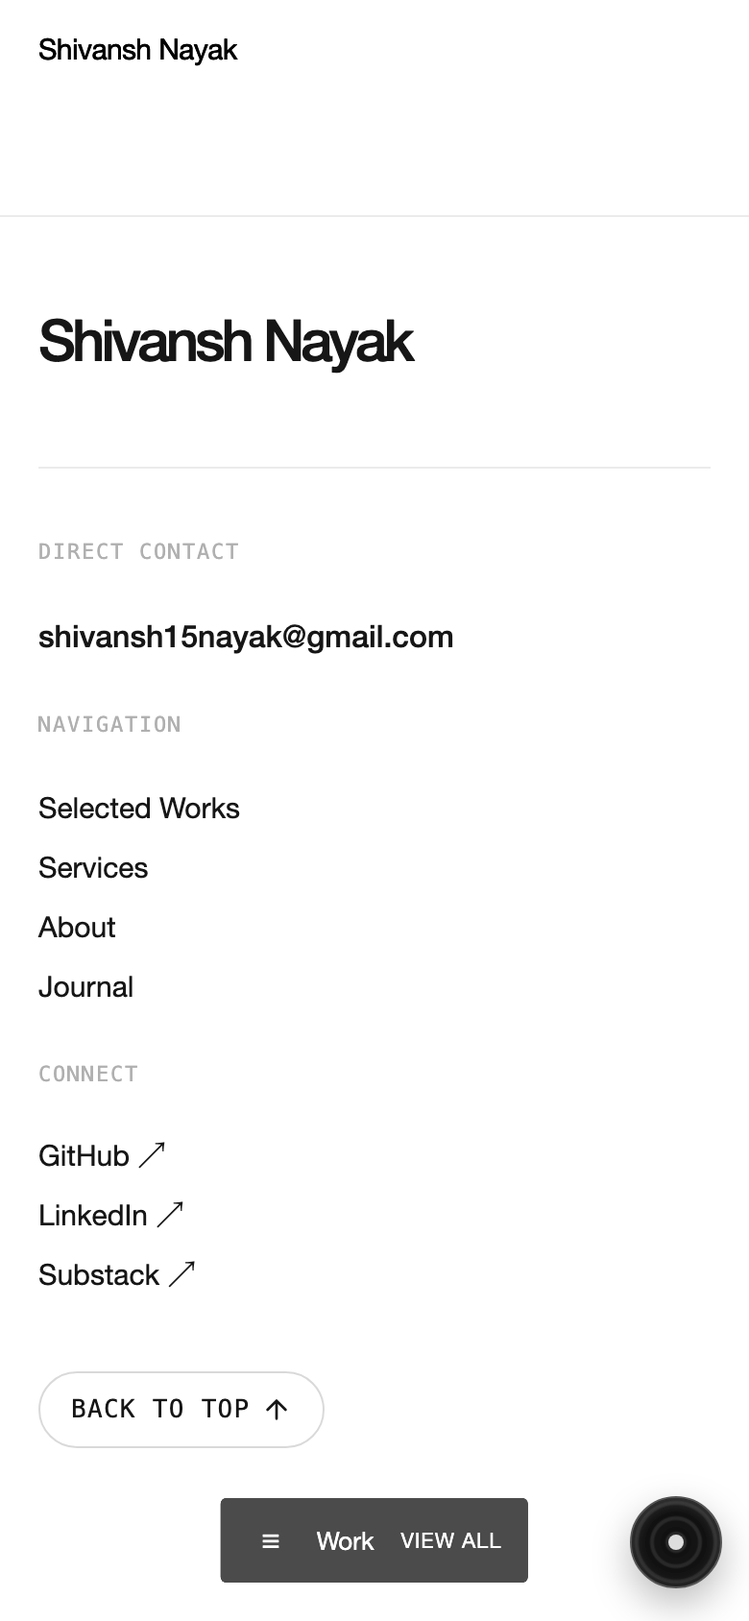
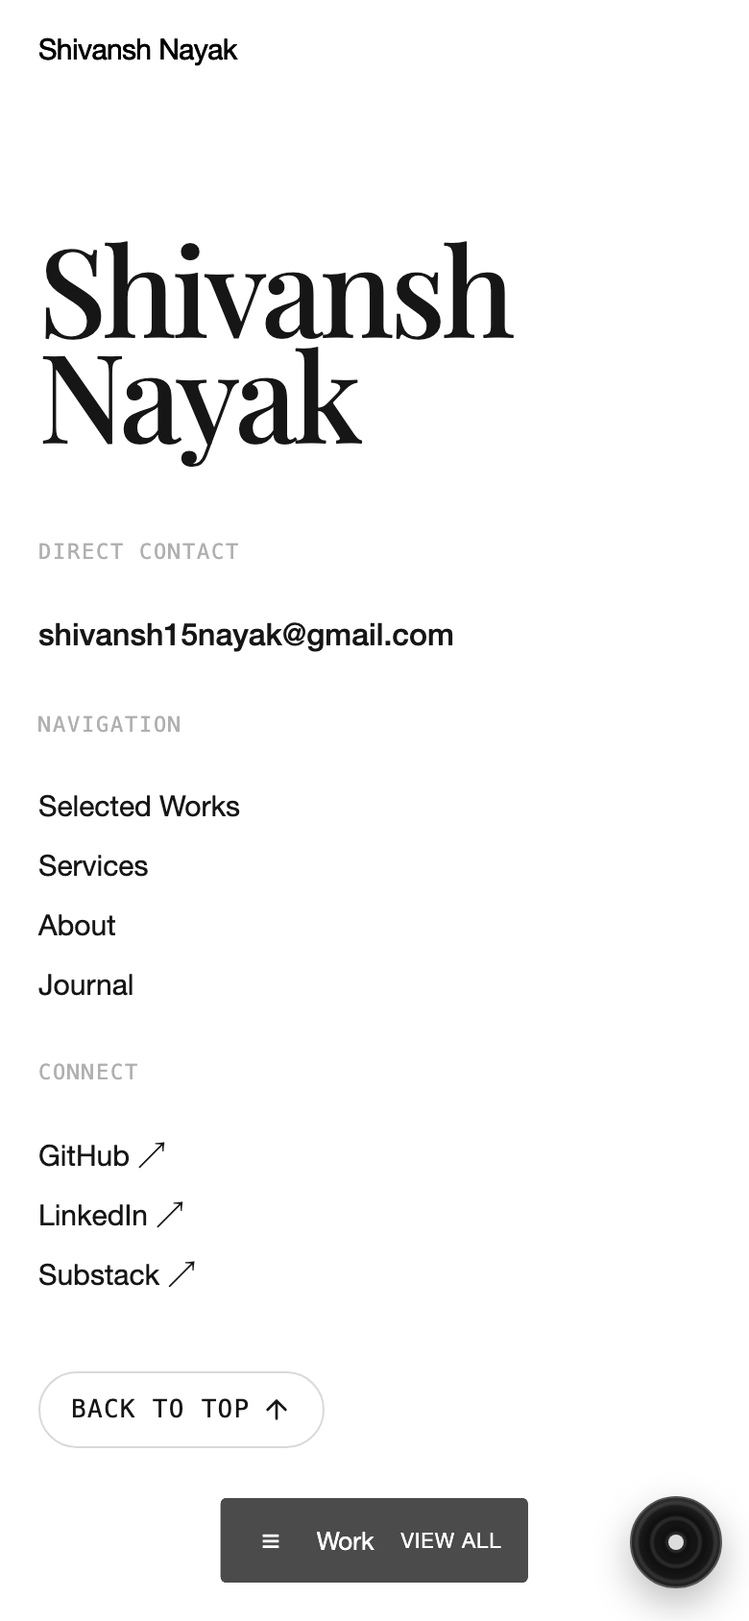
style: remove border lines in footer and enlarge Shivansh Nayak wordmark in editorial serif font

diff --git a/web/fizzi/style.css b/web/fizzi/style.css
@@ -1,1 +1,1 @@
-@import '../shared/base.css';:root{--pink:#f5cfce;--ink:#60293c;--flavour:#f0a6ae}body{background:var(--pink);color:var(--ink)}header{position:absolute;top:0;width:100%;z-index:5;display:flex;align-items:center;justify-content:space-between;padding:28px 5%}.logo{font-size:52px;letter-spacing:-5px;font-weight:800;line-height:1}.logo span{font-size:10px;letter-spacing:0;vertical-align:top;margin-left:7px}nav{display:flex;gap:35px;font-size:11px}header button{border:1px solid #60293c55;background:none;padding:12px 17px;border-radius:30px;color:inherit;font-size:10px}header button span{margin-left:12px}.hero{height:100svh;min-height:780px;max-height:1100px;position:relative;padding:145px 5% 35px;overflow:hidden}.eyebrow{font-size:8px;letter-spacing:1.5px;position:relative;z-index:2;display:block;text-align:center}.hero h1{text-align:center;font-size:clamp(75px,10.5vw,170px);line-height:.9;letter-spacing:-8px;margin:35px 0;position:relative;z-index:1;font-weight:800}.hero h1 em{font-family:Georgia;font-weight:400}.can-scene{position:absolute;inset:230px 0 70px;z-index:2;pointer-events:none}.can-scene canvas,.single-can canvas{width:100%;height:100%;display:block}.scene-loading{position:absolute;top:50%;left:50%;transform:translate(-50%,-50%);font-size:9px;letter-spacing:2px}.hero-bottom{position:absolute;bottom:35px;left:5%;right:5%;display:flex;justify-content:space-between;align-items:end;z-index:3}.hero-bottom p{font-size:12px;line-height:1.8;margin:0}.hero-bottom>span{font-size:7px;letter-spacing:1px}.pill{display:inline-flex;justify-content:space-between;gap:40px;background:var(--ink);color:#fff5e8;border:0;border-radius:35px;padding:17px 25px;font-size:12px}.fruit{position:absolute;font-size:130px;opacity:.6;z-index:0}.fruit-1{left:7%;top:35%;color:#bf5973;transform:rotate(-12deg)}.fruit-2{right:10%;top:62%;color:#b94c68;transform:rotate(25deg)}.marquee{padding:25px;background:#60293c;color:var(--pink);white-space:nowrap;overflow:hidden;font-size:21px;font-weight:600;letter-spacing:-.5px;text-align:center}.marquee span{margin:0 45px}.story{padding:100px 6%;background:#fff5e8;text-align:center}.story>span,.flavour-top,.big-statement>span,.questions>span{font-size:8px;letter-spacing:1.5px}h2{font-size:clamp(45px,6vw,90px);font-weight:600;line-height:1;letter-spacing:-4px;margin:35px 0}h2 em{font-family:Georgia;font-weight:400;letter-spacing:-.055em}.story>p{font-size:13px;line-height:1.9;color:#926d6b}.values{display:grid;grid-template-columns:repeat(3,1fr);gap:50px;margin-top:75px}.values b{font-size:50px;font-weight:400}.values h3{font-size:25px;font-weight:600;letter-spacing:-1px}.values p{font-size:12px;line-height:1.8;color:#926d6b}.flavours{background:var(--flavour);padding:35px 6% 70px;transition:background .6s,color .6s}.flavour-top{display:flex;justify-content:space-between}.flavour-layout{display:grid;grid-template-columns:1.2fr 1fr;gap:10%;align-items:center;margin-top:40px}.single-can{height:570px;position:relative}.single-can:before{content:'';position:absolute;inset:10% 0;border-radius:50%;background:#ffffff22}.single-can canvas{position:relative}.orbit-text{position:absolute;bottom:25px;left:50%;transform:translateX(-50%);font-size:8px;letter-spacing:3px;white-space:nowrap}.flavour-info>span{font-size:8px;letter-spacing:1px}.flavour-info h2{font-size:80px;font-weight:800;letter-spacing:-5px;margin:25px 0}.flavour-info>p{font-size:13px;line-height:1.9;max-width:350px}.flavour-switches{display:flex;gap:15px;margin:25px 0}.flavour-switches button{font-size:28px;line-height:1;border-radius:50%;border:1px solid transparent;background:none;padding:4px;width:42px;height:42px}.flavour-switches button.active{border-color:currentColor}.flavour-switches button:nth-child(1){color:#933b5b}.flavour-switches button:nth-child(2){color:#e0ea70}.flavour-switches button:nth-child(3){color:#8971bd}.flavour-switches button:nth-child(4){color:#da5c6b}.flavour-switches button:nth-child(5){color:#efad8c}.pack{border-top:1px solid #60293c55;padding:20px 0;display:flex;justify-content:space-between;align-items:center;max-width:360px}.pack span{font-size:8px;letter-spacing:1px}.pack b{font-size:22px;font-weight:500}#add-bag{width:100%;max-width:360px}.flavour-info>small{font-size:8px;display:block;margin-top:16px;opacity:.7}.big-statement{background:#b9c784;text-align:center;padding:90px 5%;color:#384c27}.big-statement h2{font-size:clamp(65px,8.5vw,135px);margin:40px 0}.big-statement .pill{background:#384c27;margin-top:15px}.questions{padding:90px 7%;max-width:1000px;margin:auto}.questions h2{margin-bottom:50px}.questions details{border-top:1px solid #60293c55;padding:22px 0}.questions summary{font-size:15px;cursor:pointer}.questions p{font-size:12px;line-height:1.8;max-width:650px}.closing{text-align:center;background:#60293c;color:var(--pink);padding:70px 5%}.closing .logo{font-size:130px;letter-spacing:-12px}.closing h2{font-size:35px;letter-spacing:-1.5px}.closing>a:last-child{font-size:12px;border-bottom:1px solid;padding-bottom:7px}footer{padding:28px 5%;display:flex;justify-content:space-between;align-items:center;gap:20px;font-size:12px;border-top:1px solid #60293c33}footer a{color:inherit;text-decoration:none;border-bottom:1px solid transparent;transition:border-color .2s}footer a:hover{border-color:currentColor}dialog{background:#fff5e8;color:#60293c}.bag-row{border-top:1px solid #ddd;padding:15px 0;display:flex;justify-content:space-between;gap:15px;font-size:12px;align-items:center}.bag-row button{border:1px solid #aaa;background:none;border-radius:50%;width:25px;height:25px;color:inherit}.bag-row span{font-size:10px}.bag-row>div{display:flex;align-items:center;gap:10px}#bag-total{font-size:18px;margin:25px 0}#checkout-status{font-size:12px}dialog>small{font-size:9px}dialog .pill{width:100%}@media(max-width:650px){header{padding:24px 5%}.logo{font-size:39px;letter-spacing:-4px}nav{display:none}.hero{min-height:780px;max-height:900px;padding-top:135px}.eyebrow{font-size:6px;letter-spacing:1px}.hero h1{font-size:16vw;letter-spacing:-4px;margin-top:30px}.can-scene{inset:270px 0 135px}.fruit{font-size:75px}.fruit-1{top:43%;left:3%}.fruit-2{top:65%;right:5%}.hero-bottom{bottom:30px;align-items:center;gap:15px}.hero-bottom p{font-size:10px}.hero-bottom>span{display:none}.hero-bottom .pill{font-size:10px;padding:14px 18px;gap:15px}.marquee{font-size:16px;padding:20px}.marquee span{margin:0 25px}.story{padding:65px 6%}h2{font-size:43px;letter-spacing:-2px}.story>p{font-size:12px}.values{grid-template-columns:1fr;gap:30px;margin-top:45px}.values h3{font-size:25px;margin:18px 0}.values b{font-size:40px}.flavours{padding:25px 6% 55px}.flavour-top{font-size:6px;line-height:1.7;gap:25px}.flavour-top>span:last-child{text-align:right;max-width:130px}.flavour-layout{grid-template-columns:1fr;gap:20px;margin-top:10px}.single-can{height:400px}.single-can:before{inset:5% 0}.flavour-info h2{font-size:64px;letter-spacing:-4px}.flavour-info>p{font-size:12px}.flavour-info>span{font-size:7px}.flavour-switches{gap:12px}.pack,#add-bag{max-width:none}.big-statement{padding:65px 5%}.big-statement h2{font-size:15vw;letter-spacing:-3px}.questions{padding:65px 6%}.questions summary{font-size:13px;line-height:1.6}.closing .logo{font-size:100px}.closing h2{font-size:29px}footer{flex-wrap:wrap;font-size:7px;justify-content:center}footer>span{width:100%;text-align:center;order:3}}
+@import '../shared/base.css';:root{--pink:#f5cfce;--ink:#60293c;--flavour:#f0a6ae}body{background:var(--pink);color:var(--ink)}header{position:absolute;top:0;width:100%;z-index:5;display:flex;align-items:center;justify-content:space-between;padding:28px 5%}.logo{font-size:52px;letter-spacing:-5px;font-weight:800;line-height:1}.logo span{font-size:10px;letter-spacing:0;vertical-align:top;margin-left:7px}nav{display:flex;gap:35px;font-size:11px}header button{border:1px solid #60293c55;background:none;padding:12px 17px;border-radius:30px;color:inherit;font-size:10px}header button span{margin-left:12px}.hero{height:100svh;min-height:780px;max-height:1100px;position:relative;padding:145px 5% 35px;overflow:hidden}.eyebrow{font-size:8px;letter-spacing:1.5px;position:relative;z-index:2;display:block;text-align:center}.hero h1{text-align:center;font-size:clamp(75px,10.5vw,170px);line-height:.9;letter-spacing:-8px;margin:35px 0;position:relative;z-index:1;font-weight:800}.hero h1 em{font-family:Georgia;font-weight:400}.can-scene{position:absolute;inset:230px 0 70px;z-index:2;pointer-events:none}.can-scene canvas,.single-can canvas{width:100%;height:100%;display:block}.scene-loading{position:absolute;top:50%;left:50%;transform:translate(-50%,-50%);font-size:9px;letter-spacing:2px}.hero-bottom{position:absolute;bottom:35px;left:5%;right:5%;display:flex;justify-content:space-between;align-items:end;z-index:3}.hero-bottom p{font-size:12px;line-height:1.8;margin:0}.hero-bottom>span{font-size:7px;letter-spacing:1px}.pill{display:inline-flex;justify-content:space-between;gap:40px;background:var(--ink);color:#fff5e8;border:0;border-radius:35px;padding:17px 25px;font-size:12px}.fruit{position:absolute;font-size:130px;opacity:.6;z-index:0}.fruit-1{left:7%;top:35%;color:#bf5973;transform:rotate(-12deg)}.fruit-2{right:10%;top:62%;color:#b94c68;transform:rotate(25deg)}.marquee{padding:25px;background:#60293c;color:var(--pink);white-space:nowrap;overflow:hidden;font-size:21px;font-weight:600;letter-spacing:-.5px;text-align:center}.marquee span{margin:0 45px}.story{padding:100px 6%;background:#fff5e8;text-align:center}.story>span,.flavour-top,.big-statement>span,.questions>span{font-size:8px;letter-spacing:1.5px}h2{font-size:clamp(45px,6vw,90px);font-weight:600;line-height:1;letter-spacing:-4px;margin:35px 0}h2 em{font-family:Georgia;font-weight:400;letter-spacing:-.055em}.story>p{font-size:13px;line-height:1.9;color:#926d6b}.values{display:grid;grid-template-columns:repeat(3,1fr);gap:50px;margin-top:75px}.values b{font-size:50px;font-weight:400}.values h3{font-size:25px;font-weight:600;letter-spacing:-1px}.values p{font-size:12px;line-height:1.8;color:#926d6b}.flavours{background:var(--flavour);padding:35px 6% 70px;transition:background .6s,color .6s}.flavour-top{display:flex;justify-content:space-between}.flavour-layout{display:grid;grid-template-columns:1.2fr 1fr;gap:10%;align-items:center;margin-top:40px}.single-can{height:570px;position:relative}.single-can:before{content:'';position:absolute;inset:10% 0;border-radius:50%;background:#ffffff22}.single-can canvas{position:relative}.orbit-text{position:absolute;bottom:25px;left:50%;transform:translateX(-50%);font-size:8px;letter-spacing:3px;white-space:nowrap}.flavour-info>span{font-size:8px;letter-spacing:1px}.flavour-info h2{font-size:80px;font-weight:800;letter-spacing:-5px;margin:25px 0}.flavour-info>p{font-size:13px;line-height:1.9;max-width:350px}.flavour-switches{display:flex;gap:15px;margin:25px 0}.flavour-switches button{font-size:28px;line-height:1;border-radius:50%;border:1px solid transparent;background:none;padding:4px;width:42px;height:42px}.flavour-switches button.active{border-color:currentColor}.flavour-switches button:nth-child(1){color:#933b5b}.flavour-switches button:nth-child(2){color:#e0ea70}.flavour-switches button:nth-child(3){color:#8971bd}.flavour-switches button:nth-child(4){color:#da5c6b}.flavour-switches button:nth-child(5){color:#efad8c}.pack{border-top:1px solid #60293c55;padding:20px 0;display:flex;justify-content:space-between;align-items:center;max-width:360px}.pack span{font-size:8px;letter-spacing:1px}.pack b{font-size:22px;font-weight:500}#add-bag{width:100%;max-width:360px}.flavour-info>small{font-size:8px;display:block;margin-top:16px;opacity:.7}.big-statement{background:#b9c784;text-align:center;padding:90px 5%;color:#384c27}.big-statement h2{font-size:clamp(65px,8.5vw,135px);margin:40px 0}.big-statement .pill{background:#384c27;margin-top:15px}.questions{padding:90px 7%;max-width:1000px;margin:auto}.questions h2{margin-bottom:50px}.questions details{border-top:1px solid #60293c55;padding:22px 0}.questions summary{font-size:15px;cursor:pointer}.questions p{font-size:12px;line-height:1.8;max-width:650px}.closing{text-align:center;background:#60293c;color:var(--pink);padding:70px 5%}.closing .logo{font-size:130px;letter-spacing:-12px}.closing h2{font-size:35px;letter-spacing:-1.5px}.closing>a:last-child{font-size:12px;border-bottom:1px solid;padding-bottom:7px}footer{padding:28px 5%;display:flex;justify-content:space-between;align-items:center;gap:20px;font-size:12px;border-top:none}footer a{color:inherit;text-decoration:none;border-bottom:1px solid transparent;transition:border-color .2s}footer a:hover{border-color:currentColor}dialog{background:#fff5e8;color:#60293c}.bag-row{border-top:1px solid #ddd;padding:15px 0;display:flex;justify-content:space-between;gap:15px;font-size:12px;align-items:center}.bag-row button{border:1px solid #aaa;background:none;border-radius:50%;width:25px;height:25px;color:inherit}.bag-row span{font-size:10px}.bag-row>div{display:flex;align-items:center;gap:10px}#bag-total{font-size:18px;margin:25px 0}#checkout-status{font-size:12px}dialog>small{font-size:9px}dialog .pill{width:100%}@media(max-width:650px){header{padding:24px 5%}.logo{font-size:39px;letter-spacing:-4px}nav{display:none}.hero{min-height:780px;max-height:900px;padding-top:135px}.eyebrow{font-size:6px;letter-spacing:1px}.hero h1{font-size:16vw;letter-spacing:-4px;margin-top:30px}.can-scene{inset:270px 0 135px}.fruit{font-size:75px}.fruit-1{top:43%;left:3%}.fruit-2{top:65%;right:5%}.hero-bottom{bottom:30px;align-items:center;gap:15px}.hero-bottom p{font-size:10px}.hero-bottom>span{display:none}.hero-bottom .pill{font-size:10px;padding:14px 18px;gap:15px}.marquee{font-size:16px;padding:20px}.marquee span{margin:0 25px}.story{padding:65px 6%}h2{font-size:43px;letter-spacing:-2px}.story>p{font-size:12px}.values{grid-template-columns:1fr;gap:30px;margin-top:45px}.values h3{font-size:25px;margin:18px 0}.values b{font-size:40px}.flavours{padding:25px 6% 55px}.flavour-top{font-size:6px;line-height:1.7;gap:25px}.flavour-top>span:last-child{text-align:right;max-width:130px}.flavour-layout{grid-template-columns:1fr;gap:20px;margin-top:10px}.single-can{height:400px}.single-can:before{inset:5% 0}.flavour-info h2{font-size:64px;letter-spacing:-4px}.flavour-info>p{font-size:12px}.flavour-info>span{font-size:7px}.flavour-switches{gap:12px}.pack,#add-bag{max-width:none}.big-statement{padding:65px 5%}.big-statement h2{font-size:15vw;letter-spacing:-3px}.questions{padding:65px 6%}.questions summary{font-size:13px;line-height:1.6}.closing .logo{font-size:100px}.closing h2{font-size:29px}footer{flex-wrap:wrap;font-size:7px;justify-content:center}footer>span{width:100%;text-align:center;order:3}}

diff --git a/web/substance/style.css b/web/substance/style.css
@@ -1,1 +1,1 @@
-@import '../shared/base.css';:root{--bg:#10101b;--pink:#f04687;--cyan:#4ce4c5}body{background:var(--bg);color:#ecebec}header{position:absolute;top:0;left:0;right:0;z-index:5;display:flex;align-items:center;justify-content:space-between;padding:30px 5%}.logo{font-size:15px;line-height:1;letter-spacing:-.5px;font-weight:700;position:relative}.logo span{position:absolute;right:-15px;top:0;font-size:8px}nav{display:flex;gap:35px;font-size:10px}header>a:last-child{font-size:10px;border-bottom:1px solid #777;padding-bottom:8px}.hero{height:100svh;min-height:800px;max-height:1100px;position:relative;overflow:hidden;padding:160px 5% 40px}.eyebrow{font-size:7px;letter-spacing:1.5px;color:#888}.hero h1{font-size:clamp(90px,12vw,190px);letter-spacing:-9px;font-weight:500;line-height:.9;position:relative;z-index:2;pointer-events:none;margin:65px 0 25px}.hero em{color:var(--pink);font-family:Georgia,serif;font-weight:400}.hero>p{font-size:13px;line-height:1.8;color:#999;position:relative;z-index:2}.hero-foot{position:absolute;bottom:35px;left:5%;right:5%;display:flex;justify-content:space-between;gap:20px;font-size:7px;letter-spacing:1px}.hero-foot>a{color:var(--cyan)}#gem-stage{position:absolute;width:65%;height:80%;right:-2%;top:10%;pointer-events:none}#gem-stage canvas{width:100%;height:100%;display:block}#gem-loading{position:absolute;left:50%;top:50%;font-size:8px;letter-spacing:1px;transform:translate(-50%,-50%)}.manifesto{padding:100px 7%;border-top:1px solid #393943;background:#161624}.manifesto>span,.material>span,.contact>span{font-size:8px;letter-spacing:1.3px;color:#999}h2{font-size:clamp(45px,6vw,90px);line-height:1.05;letter-spacing:-4px;font-weight:400;margin:35px 0}h2 em{font-family:Georgia;font-weight:400;color:var(--cyan)}.manifesto>div{display:grid;grid-template-columns:1fr 1fr;gap:40px;max-width:620px;margin:45px 0 0 auto}.manifesto p{font-size:13px;line-height:1.9;color:#999}.studies{padding:70px 7%}.section-line{display:flex;justify-content:space-between;font-size:7px;letter-spacing:1.2px;color:#999;border-bottom:1px solid #444;padding-bottom:25px}.study{margin:70px 0 110px}.image-wrap{height:580px;position:relative;overflow:hidden;background:#222}.image-wrap img{width:100%;height:100%;object-fit:cover;transition:transform 1.5s}.image-wrap:hover img{transform:scale(1.06)}.image-wrap>span{position:absolute;bottom:20px;left:30px;font-size:120px;line-height:1;color:var(--cyan);letter-spacing:-8px;mix-blend-mode:difference}.image-mask{position:absolute;inset:0;background:linear-gradient(transparent,#10101b33)}.study-caption{display:grid;grid-template-columns:1fr 1fr;gap:12%;padding-top:30px}.study-caption h3{font-size:58px;line-height:1;letter-spacing:-3px;font-weight:400;margin:0}.study-caption em{font-family:Georgia;color:var(--pink);font-weight:400}.study-caption>div>span{font-size:7px;letter-spacing:1px;color:#999}.study-caption p{font-size:12px;line-height:1.9;color:#999;max-width:330px}.study-caption button{border:0;border-bottom:1px solid #777;color:var(--cyan);padding:8px 0;background:none;font-size:11px}.second .image-wrap{width:80%;margin-left:auto;height:650px}.second .image-wrap>span{color:var(--pink)}.material{background:var(--cyan);color:#15352f;padding:80px 7%;position:relative;overflow:hidden}.material>span{color:#38786b}.material h2 em{color:#15352f}.material>p{font-size:12px;line-height:1.9}.material-modes{display:flex;gap:12px;position:relative;z-index:2;margin:30px 0}.material-modes button{background:none;border:1px solid #4b9e8c;border-radius:30px;padding:13px 20px;font-size:11px;color:#15352f}.material-modes button.active{background:#15352f;color:var(--cyan)}.return-gem{font-size:11px;border-bottom:1px solid;padding-bottom:6px;position:relative;z-index:2}.big-asterisk{position:absolute;right:7%;top:12%;font-size:400px;color:#15352f22;line-height:1;transform:rotate(-12deg)}.contact{padding:100px 7%}.contact h2 em{color:var(--pink)}.contact form{max-width:600px;margin:50px 0 0 auto}.contact form>div{margin-bottom:25px}.contact label{display:block;font-size:7px;letter-spacing:1px;color:#999;margin-bottom:12px}.contact input,.contact textarea{border:0;border-bottom:1px solid #444;background:none;padding:15px 0;color:white;width:100%;font-size:15px;resize:vertical}.contact button{border:1px solid #666;border-radius:30px;padding:15px 22px;background:none;color:white;font-size:11px}.contact form p{font-size:9px;color:#888;line-height:1.8}footer{border-top:1px solid #333;padding:28px 5%;display:flex;justify-content:space-between;align-items:center;gap:20px;font-size:12px;letter-spacing:.5px;color:#aaa}footer a{color:inherit;text-decoration:none;border-bottom:1px solid transparent;transition:border-color .2s}footer a:hover{border-color:currentColor}dialog{background:#191927;color:white}dialog>span{font-size:7px;letter-spacing:1px;color:#aaa}dialog h2{font-size:40px;letter-spacing:-2px}dialog p{font-size:13px;color:#aaa}@media(max-width:650px){header{padding:25px 6%}.logo{font-size:11px}nav{display:none}.hero{min-height:850px;height:100svh;padding:135px 6% 30px}.eyebrow{font-size:5px}.hero h1{font-size:20vw;letter-spacing:-5px;margin-top:45px}.hero>p{font-size:11px}.hero-foot{font-size:5px;line-height:1.8;left:6%;right:6%}.hero-foot>span:last-child{display:none}#gem-stage{width:110%;height:470px;right:-15%;top:350px}.manifesto{padding:65px 6%}h2{font-size:45px;letter-spacing:-2px}.manifesto>div{grid-template-columns:1fr;gap:0;margin-top:25px}.manifesto p{font-size:12px}.studies{padding:50px 6%}.section-line{font-size:5px;gap:20px}.section-line>span:last-child{text-align:right}.study{margin:40px 0 65px}.image-wrap{height:360px}.image-wrap>span{font-size:80px;letter-spacing:-5px;left:20px}.study-caption{grid-template-columns:1fr;gap:25px}.study-caption h3{font-size:45px;letter-spacing:-2px}.study-caption h3 br{display:none}.study-caption p{font-size:12px;max-width:none}.second .image-wrap{width:90%;height:430px}.material{padding:60px 6%}.material-modes{gap:8px;flex-wrap:wrap}.material-modes button{font-size:9px;padding:12px 15px}.big-asterisk{font-size:250px;right:-20%;top:30%}.contact{padding:65px 6%}.contact form{margin-top:35px}.contact input,.contact textarea{font-size:13px}footer{flex-wrap:wrap;justify-content:center;font-size:6px}footer>span{width:100%;text-align:center;order:3}}
+@import '../shared/base.css';:root{--bg:#10101b;--pink:#f04687;--cyan:#4ce4c5}body{background:var(--bg);color:#ecebec}header{position:absolute;top:0;left:0;right:0;z-index:5;display:flex;align-items:center;justify-content:space-between;padding:30px 5%}.logo{font-size:15px;line-height:1;letter-spacing:-.5px;font-weight:700;position:relative}.logo span{position:absolute;right:-15px;top:0;font-size:8px}nav{display:flex;gap:35px;font-size:10px}header>a:last-child{font-size:10px;border-bottom:1px solid #777;padding-bottom:8px}.hero{height:100svh;min-height:800px;max-height:1100px;position:relative;overflow:hidden;padding:160px 5% 40px}.eyebrow{font-size:7px;letter-spacing:1.5px;color:#888}.hero h1{font-size:clamp(90px,12vw,190px);letter-spacing:-9px;font-weight:500;line-height:.9;position:relative;z-index:2;pointer-events:none;margin:65px 0 25px}.hero em{color:var(--pink);font-family:Georgia,serif;font-weight:400}.hero>p{font-size:13px;line-height:1.8;color:#999;position:relative;z-index:2}.hero-foot{position:absolute;bottom:35px;left:5%;right:5%;display:flex;justify-content:space-between;gap:20px;font-size:7px;letter-spacing:1px}.hero-foot>a{color:var(--cyan)}#gem-stage{position:absolute;width:65%;height:80%;right:-2%;top:10%;pointer-events:none}#gem-stage canvas{width:100%;height:100%;display:block}#gem-loading{position:absolute;left:50%;top:50%;font-size:8px;letter-spacing:1px;transform:translate(-50%,-50%)}.manifesto{padding:100px 7%;border-top:1px solid #393943;background:#161624}.manifesto>span,.material>span,.contact>span{font-size:8px;letter-spacing:1.3px;color:#999}h2{font-size:clamp(45px,6vw,90px);line-height:1.05;letter-spacing:-4px;font-weight:400;margin:35px 0}h2 em{font-family:Georgia;font-weight:400;color:var(--cyan)}.manifesto>div{display:grid;grid-template-columns:1fr 1fr;gap:40px;max-width:620px;margin:45px 0 0 auto}.manifesto p{font-size:13px;line-height:1.9;color:#999}.studies{padding:70px 7%}.section-line{display:flex;justify-content:space-between;font-size:7px;letter-spacing:1.2px;color:#999;border-bottom:1px solid #444;padding-bottom:25px}.study{margin:70px 0 110px}.image-wrap{height:580px;position:relative;overflow:hidden;background:#222}.image-wrap img{width:100%;height:100%;object-fit:cover;transition:transform 1.5s}.image-wrap:hover img{transform:scale(1.06)}.image-wrap>span{position:absolute;bottom:20px;left:30px;font-size:120px;line-height:1;color:var(--cyan);letter-spacing:-8px;mix-blend-mode:difference}.image-mask{position:absolute;inset:0;background:linear-gradient(transparent,#10101b33)}.study-caption{display:grid;grid-template-columns:1fr 1fr;gap:12%;padding-top:30px}.study-caption h3{font-size:58px;line-height:1;letter-spacing:-3px;font-weight:400;margin:0}.study-caption em{font-family:Georgia;color:var(--pink);font-weight:400}.study-caption>div>span{font-size:7px;letter-spacing:1px;color:#999}.study-caption p{font-size:12px;line-height:1.9;color:#999;max-width:330px}.study-caption button{border:0;border-bottom:1px solid #777;color:var(--cyan);padding:8px 0;background:none;font-size:11px}.second .image-wrap{width:80%;margin-left:auto;height:650px}.second .image-wrap>span{color:var(--pink)}.material{background:var(--cyan);color:#15352f;padding:80px 7%;position:relative;overflow:hidden}.material>span{color:#38786b}.material h2 em{color:#15352f}.material>p{font-size:12px;line-height:1.9}.material-modes{display:flex;gap:12px;position:relative;z-index:2;margin:30px 0}.material-modes button{background:none;border:1px solid #4b9e8c;border-radius:30px;padding:13px 20px;font-size:11px;color:#15352f}.material-modes button.active{background:#15352f;color:var(--cyan)}.return-gem{font-size:11px;border-bottom:1px solid;padding-bottom:6px;position:relative;z-index:2}.big-asterisk{position:absolute;right:7%;top:12%;font-size:400px;color:#15352f22;line-height:1;transform:rotate(-12deg)}.contact{padding:100px 7%}.contact h2 em{color:var(--pink)}.contact form{max-width:600px;margin:50px 0 0 auto}.contact form>div{margin-bottom:25px}.contact label{display:block;font-size:7px;letter-spacing:1px;color:#999;margin-bottom:12px}.contact input,.contact textarea{border:0;border-bottom:1px solid #444;background:none;padding:15px 0;color:white;width:100%;font-size:15px;resize:vertical}.contact button{border:1px solid #666;border-radius:30px;padding:15px 22px;background:none;color:white;font-size:11px}.contact form p{font-size:9px;color:#888;line-height:1.8}footer{border-top:none;padding:28px 5%;display:flex;justify-content:space-between;align-items:center;gap:20px;font-size:12px;letter-spacing:.5px;color:#aaa}footer a{color:inherit;text-decoration:none;border-bottom:1px solid transparent;transition:border-color .2s}footer a:hover{border-color:currentColor}dialog{background:#191927;color:white}dialog>span{font-size:7px;letter-spacing:1px;color:#aaa}dialog h2{font-size:40px;letter-spacing:-2px}dialog p{font-size:13px;color:#aaa}@media(max-width:650px){header{padding:25px 6%}.logo{font-size:11px}nav{display:none}.hero{min-height:850px;height:100svh;padding:135px 6% 30px}.eyebrow{font-size:5px}.hero h1{font-size:20vw;letter-spacing:-5px;margin-top:45px}.hero>p{font-size:11px}.hero-foot{font-size:5px;line-height:1.8;left:6%;right:6%}.hero-foot>span:last-child{display:none}#gem-stage{width:110%;height:470px;right:-15%;top:350px}.manifesto{padding:65px 6%}h2{font-size:45px;letter-spacing:-2px}.manifesto>div{grid-template-columns:1fr;gap:0;margin-top:25px}.manifesto p{font-size:12px}.studies{padding:50px 6%}.section-line{font-size:5px;gap:20px}.section-line>span:last-child{text-align:right}.study{margin:40px 0 65px}.image-wrap{height:360px}.image-wrap>span{font-size:80px;letter-spacing:-5px;left:20px}.study-caption{grid-template-columns:1fr;gap:25px}.study-caption h3{font-size:45px;letter-spacing:-2px}.study-caption h3 br{display:none}.study-caption p{font-size:12px;max-width:none}.second .image-wrap{width:90%;height:430px}.material{padding:60px 6%}.material-modes{gap:8px;flex-wrap:wrap}.material-modes button{font-size:9px;padding:12px 15px}.big-asterisk{font-size:250px;right:-20%;top:30%}.contact{padding:65px 6%}.contact form{margin-top:35px}.contact input,.contact textarea{font-size:13px}footer{flex-wrap:wrap;justify-content:center;font-size:6px}footer>span{width:100%;text-align:center;order:3}}

diff --git a/web/site/site.css b/web/site/site.css
@@ -1,3 +1,5 @@
+@import url('https://fonts.googleapis.com/css2?family=Italiana&family=Playfair+Display:ital,wght@0,400..700;1,400..700&family=Syne:wght@600;700;800&family=Cormorant+Garamond:ital,wght@0,400;0,500;0,600;1,400;1,500&display=swap');
+
 :root {
   --black: #161616;
   --white: #faf9f6;
@@ -180,15 +182,17 @@ footer.site-footer {
   padding: clamp(60px, 9vw, 130px) var(--pad) 56px;
   background: var(--white);
   color: var(--black);
-  border-top: 1px solid rgba(0, 0, 0, 0.08);
+  border-top: none;
 }
 .footer-logo a {
-  display: inline-block;
-  max-width: 900px;
+  display: block;
+  width: 100%;
+  max-width: 100%;
   text-decoration: none;
-  font-size: clamp(56px, 9.5vw, 136px);
+  font-family: 'Playfair Display', Georgia, 'Times New Roman', serif;
+  font-size: clamp(64px, 11.4vw, 185px);
   line-height: .86;
-  letter-spacing: -.045em;
+  letter-spacing: -.03em;
   font-weight: 500;
   color: inherit;
   transition: opacity .25s ease;
@@ -204,8 +208,8 @@ footer.site-footer {
   grid-template-columns: 1.4fr 1fr 1fr auto;
   gap: clamp(24px, 3.5vw, 64px);
   align-items: start;
-  padding-top: 36px;
-  border-top: 1px solid rgba(0, 0, 0, 0.08);
+  padding-top: 0;
+  border-top: none;
   font-size: 15px;
 }
 .footer-label {
@@ -761,9 +765,7 @@ footer.site-footer {
 .blog-home h2 {font-size:14px;line-height:17px;letter-spacing:0;margin-bottom:30px;}
 .blog-card p {font-size:16px;line-height:20px;}
 .blog-card .more {font-size:16px;min-height:40px;}
-footer.site-footer {padding:60px 60px 120px;}
-.footer-logo {margin-bottom:clamp(50px,10vw,150px);}
-.footer-logo a {font-size:clamp(30px,7.5vw,105px);max-width:800px;line-height:.95;white-space:nowrap;letter-spacing:-.065em;}
+footer.site-footer {padding:clamp(60px, 9vw, 130px) var(--pad) 56px;}
 button,a,input,textarea {touch-action:manipulation;}
 :focus-visible {outline:2px solid currentColor;outline-offset:5px;}
 @media(max-width:1200px) {footer.site-footer {padding:50px 50px 120px;}}
@@ -937,6 +939,7 @@ button,a,input,textarea {touch-action:manipulation;}
 .services-index { min-height: 100svh; padding: clamp(90px, 12vh, 160px) var(--pad); display: flex; flex-direction: column; justify-content: center; background: var(--white); color: var(--black); }
 .service-line { display: flex; align-items: center; gap: clamp(10px, 1.3vw, 22px); width: 100%; padding: clamp(18px, 3vh, 34px) 0; border-bottom: 1px solid color-mix(in srgb, currentColor 25%, transparent); color: inherit; text-decoration: none; font-size: clamp(25px, 4.6vw, 76px); line-height: 1.08; letter-spacing: -.05em; }
 .service-line:first-child { border-top: 1px solid color-mix(in srgb, currentColor 25%, transparent); }
+.services-index .service-line:last-child { border-bottom: none; }
 .service-line__image { flex: none; width: clamp(45px, 5.3vw, 82px); aspect-ratio: 1; overflow: hidden; }
 .service-line__image img { width: 100%; height: 100%; object-fit: cover; transition: transform .5s ease; }
 .service-line:hover .service-line__image img, .service-line:focus-visible .service-line__image img { transform: scale(1.12); }
